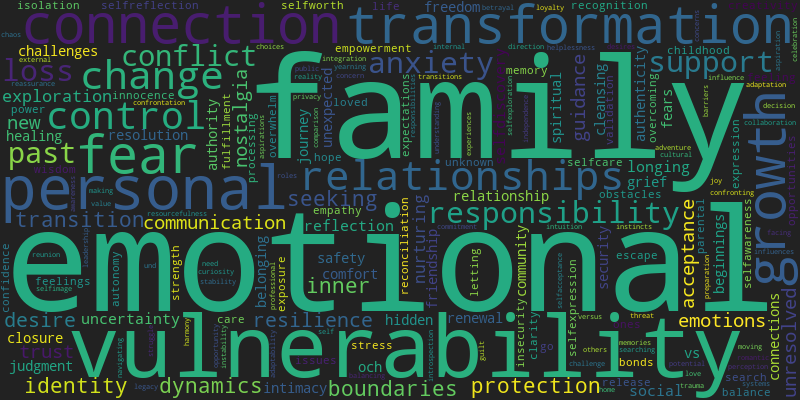
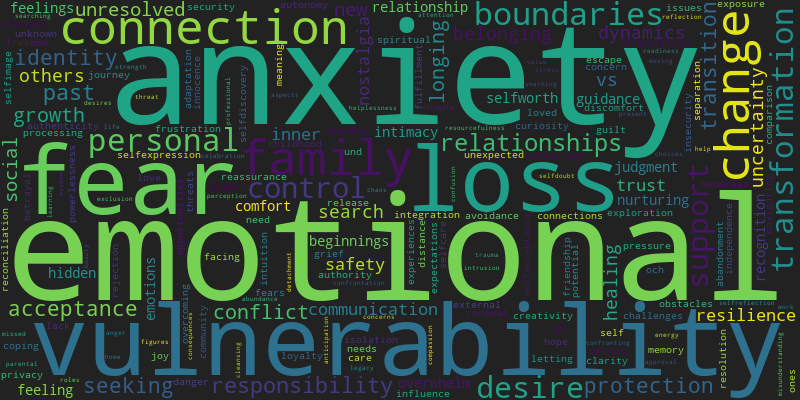
Add files via upload

diff --git a/index.html b/index.html
@@ -1,6 +1,6 @@
 <div style="padding-top: 50px;"></div>
 <h1 style="text-align:center;">Dreamverse State</h1>
-<h2 style="text-align:center;">April 30, 2025</h2>
+<h2 style="text-align:center;">May 31, 2025</h2>
 <div style="padding: 80px;"><html>
     <head>
         <meta charset="utf-8">
@@ -91,8 +91,8 @@
                   
 
                   // parsing and collecting nodes and edges from the python
-                  nodes = new vis.DataSet([{"color": "#1EA5DE", "font": {"color": "white"}, "id": "family", "label": "family", "shape": "dot", "title": "family"}, {"color": "#1EA5DE", "font": {"color": "white"}, "id": "nurturing", "label": "nurturing", "shape": "dot", "title": "nurturing"}, {"color": "#1EA5DE", "font": {"color": "white"}, "id": "responsibility", "label": "responsibility", "shape": "dot", "title": "responsibility"}, {"color": "#1EA5DE", "font": {"color": "white"}, "id": "unresolved emotions", "label": "unresolved emotions", "shape": "dot", "title": "unresolved emotions"}, {"color": "#1EA5DE", "font": {"color": "white"}, "id": "new beginnings", "label": "new beginnings", "shape": "dot", "title": "new beginnings"}, {"color": "#1EA5DE", "font": {"color": "white"}, "id": "protection", "label": "protection", "shape": "dot", "title": "protection"}, {"color": "#A51FD2", "font": {"color": "white"}, "id": "anxiety", "label": "anxiety", "shape": "dot", "title": "anxiety"}, {"color": "#1EA5DE", "font": {"color": "white"}, "id": "loss control", "label": "loss control", "shape": "dot", "title": "loss control"}, {"color": "#97F762", "font": {"color": "white"}, "id": "transformation", "label": "transformation", "shape": "dot", "title": "transformation"}, {"color": "#1EA5DE", "font": {"color": "white"}, "id": "helplessness", "label": "helplessness", "shape": "dot", "title": "helplessness"}, {"color": "#8CED22", "font": {"color": "white"}, "id": "connection", "label": "connection", "shape": "dot", "title": "connection"}, {"color": "#28A663", "font": {"color": "white"}, "id": "vulnerability", "label": "vulnerability", "shape": "dot", "title": "vulnerability"}, {"color": "#1EA5DE", "font": {"color": "white"}, "id": "closure", "label": "closure", "shape": "dot", "title": "closure"}, {"color": "#1EA5DE", "font": {"color": "white"}, "id": "past relationships", "label": "past relationships", "shape": "dot", "title": "past relationships"}, {"color": "#97F762", "font": {"color": "white"}, "id": "exploration", "label": "exploration", "shape": "dot", "title": "exploration"}, {"color": "#97F762", "font": {"color": "white"}, "id": "identity", "label": "identity", "shape": "dot", "title": "identity"}, {"color": "#A51FD2", "font": {"color": "white"}, "id": "resilience", "label": "resilience", "shape": "dot", "title": "resilience"}, {"color": "#A51FD2", "font": {"color": "white"}, "id": "inner strength", "label": "inner strength", "shape": "dot", "title": "inner strength"}, {"color": "#A51FD2", "font": {"color": "white"}, "id": "loss", "label": "loss", "shape": "dot", "title": "loss"}, {"color": "#A51FD2", "font": {"color": "white"}, "id": "friendship", "label": "friendship", "shape": "dot", "title": "friendship"}, {"color": "#28A663", "font": {"color": "white"}, "id": "exposure", "label": "exposure", "shape": "dot", "title": "exposure"}, {"color": "#28A663", "font": {"color": "white"}, "id": "authenticity", "label": "authenticity", "shape": "dot", "title": "authenticity"}, {"color": "#28A663", "font": {"color": "white"}, "id": "selfperception", "label": "selfperception", "shape": "dot", "title": "selfperception"}, {"color": "#97F762", "font": {"color": "white"}, "id": "personal growth", "label": "personal growth", "shape": "dot", "title": "personal growth"}, {"color": "#A51FD2", "font": {"color": "white"}, "id": "change", "label": "change", "shape": "dot", "title": "change"}, {"color": "#8CED22", "font": {"color": "white"}, "id": "control", "label": "control", "shape": "dot", "title": "control"}, {"color": "#A51FD2", "font": {"color": "white"}, "id": "fear", "label": "fear", "shape": "dot", "title": "fear"}, {"color": "#97F762", "font": {"color": "white"}, "id": "inner conflict", "label": "inner conflict", "shape": "dot", "title": "inner conflict"}, {"color": "#28A663", "font": {"color": "white"}, "id": "privacy", "label": "privacy", "shape": "dot", "title": "privacy"}, {"color": "#28A663", "font": {"color": "white"}, "id": "judgment", "label": "judgment", "shape": "dot", "title": "judgment"}, {"color": "#28A663", "font": {"color": "white"}, "id": "intimacy", "label": "intimacy", "shape": "dot", "title": "intimacy"}, {"color": "#8CED22", "font": {"color": "white"}, "id": "transition", "label": "transition", "shape": "dot", "title": "transition"}, {"color": "#28A663", "font": {"color": "white"}, "id": "trust", "label": "trust", "shape": "dot", "title": "trust"}, {"color": "#28A663", "font": {"color": "white"}, "id": "selfacceptance", "label": "selfacceptance", "shape": "dot", "title": "selfacceptance"}, {"color": "#28A663", "font": {"color": "white"}, "id": "communication", "label": "communication", "shape": "dot", "title": "communication"}, {"color": "#28A663", "font": {"color": "white"}, "id": "acceptance", "label": "acceptance", "shape": "dot", "title": "acceptance"}, {"color": "#28A663", "font": {"color": "white"}, "id": "confrontation", "label": "confrontation", "shape": "dot", "title": "confrontation"}, {"color": "#28A663", "font": {"color": "white"}, "id": "boundaries", "label": "boundaries", "shape": "dot", "title": "boundaries"}, {"color": "#28A663", "font": {"color": "white"}, "id": "selfawareness", "label": "selfawareness", "shape": "dot", "title": "selfawareness"}, {"color": "#8CED22", "font": {"color": "white"}, "id": "nostalgia", "label": "nostalgia", "shape": "dot", "title": "nostalgia"}, {"color": "#97F762", "font": {"color": "white"}, "id": "growth", "label": "growth", "shape": "dot", "title": "growth"}, {"color": "#97F762", "font": {"color": "white"}, "id": "guidance", "label": "guidance", "shape": "dot", "title": "guidance"}, {"color": "#97F762", "font": {"color": "white"}, "id": "selfdiscovery", "label": "selfdiscovery", "shape": "dot", "title": "selfdiscovery"}, {"color": "#8CED22", "font": {"color": "white"}, "id": "family dynamics", "label": "family dynamics", "shape": "dot", "title": "family dynamics"}, {"color": "#97F762", "font": {"color": "white"}, "id": "inner wisdom", "label": "inner wisdom", "shape": "dot", "title": "inner wisdom"}, {"color": "#97F762", "font": {"color": "white"}, "id": "cleansing", "label": "cleansing", "shape": "dot", "title": "cleansing"}, {"color": "#97F762", "font": {"color": "white"}, "id": "renewal", "label": "renewal", "shape": "dot", "title": "renewal"}, {"color": "#97F762", "font": {"color": "white"}, "id": "adaptability", "label": "adaptability", "shape": "dot", "title": "adaptability"}, {"color": "#97F762", "font": {"color": "white"}, "id": "belonging", "label": "belonging", "shape": "dot", "title": "belonging"}, {"color": "#A51FD2", "font": {"color": "white"}, "id": "grief", "label": "grief", "shape": "dot", "title": "grief"}, {"color": "#97F762", "font": {"color": "white"}, "id": "spirituality", "label": "spirituality", "shape": "dot", "title": "spirituality"}, {"color": "#97F762", "font": {"color": "white"}, "id": "reflection", "label": "reflection", "shape": "dot", "title": "reflection"}, {"color": "#28A663", "font": {"color": "white"}, "id": "insecurity", "label": "insecurity", "shape": "dot", "title": "insecurity"}, {"color": "#8CED22", "font": {"color": "white"}, "id": "uncertainty", "label": "uncertainty", "shape": "dot", "title": "uncertainty"}, {"color": "#8CED22", "font": {"color": "white"}, "id": "community", "label": "community", "shape": "dot", "title": "community"}, {"color": "#97F762", "font": {"color": "white"}, "id": "opportunity", "label": "opportunity", "shape": "dot", "title": "opportunity"}, {"color": "#8CED22", "font": {"color": "white"}, "id": "personal transformation", "label": "personal transformation", "shape": "dot", "title": "personal transformation"}, {"color": "#8CED22", "font": {"color": "white"}, "id": "creativity", "label": "creativity", "shape": "dot", "title": "creativity"}, {"color": "#DBA470", "font": {"color": "white"}, "id": "conflict resolution", "label": "conflict resolution", "shape": "dot", "title": "conflict resolution"}, {"color": "#DBA470", "font": {"color": "white"}, "id": "relationship dynamics", "label": "relationship dynamics", "shape": "dot", "title": "relationship dynamics"}]);
-                  edges = new vis.DataSet([{"from": "family", "to": "nurturing", "value": 3}, {"from": "nurturing", "to": "responsibility", "value": 3}, {"from": "nurturing", "to": "new beginnings", "value": 4}, {"from": "nurturing", "to": "protection", "value": 4}, {"from": "nurturing", "to": "transformation", "value": 4}, {"from": "responsibility", "to": "unresolved emotions", "value": 3}, {"from": "responsibility", "to": "new beginnings", "value": 3}, {"from": "responsibility", "to": "protection", "value": 3}, {"from": "responsibility", "to": "anxiety", "value": 3}, {"from": "responsibility", "to": "loss control", "value": 3}, {"from": "responsibility", "to": "transformation", "value": 4}, {"from": "responsibility", "to": "helplessness", "value": 5}, {"from": "responsibility", "to": "connection", "value": 3}, {"from": "responsibility", "to": "vulnerability", "value": 4}, {"from": "unresolved emotions", "to": "closure", "value": 3}, {"from": "unresolved emotions", "to": "past relationships", "value": 3}, {"from": "protection", "to": "vulnerability", "value": 6}, {"from": "protection", "to": "transition", "value": 3}, {"from": "protection", "to": "control", "value": 3}, {"from": "anxiety", "to": "resilience", "value": 4}, {"from": "anxiety", "to": "vulnerability", "value": 6}, {"from": "anxiety", "to": "transformation", "value": 3}, {"from": "anxiety", "to": "change", "value": 8}, {"from": "anxiety", "to": "loss", "value": 4}, {"from": "anxiety", "to": "belonging", "value": 3}, {"from": "anxiety", "to": "control", "value": 4}, {"from": "anxiety", "to": "fear", "value": 3}, {"from": "loss control", "to": "vulnerability", "value": 3}, {"from": "transformation", "to": "vulnerability", "value": 9}, {"from": "transformation", "to": "change", "value": 9}, {"from": "transformation", "to": "nostalgia", "value": 3}, {"from": "transformation", "to": "growth", "value": 5}, {"from": "transformation", "to": "guidance", "value": 4}, {"from": "transformation", "to": "personal growth", "value": 8}, {"from": "transformation", "to": "inner conflict", "value": 3}, {"from": "transformation", "to": "selfdiscovery", "value": 3}, {"from": "transformation", "to": "acceptance", "value": 3}, {"from": "transformation", "to": "identity", "value": 5}, {"from": "transformation", "to": "family dynamics", "value": 3}, {"from": "transformation", "to": "transition", "value": 4}, {"from": "transformation", "to": "inner wisdom", "value": 3}, {"from": "transformation", "to": "cleansing", "value": 3}, {"from": "transformation", "to": "renewal", "value": 4}, {"from": "transformation", "to": "adaptability", "value": 3}, {"from": "helplessness", "to": "vulnerability", "value": 3}, {"from": "connection", "to": "nostalgia", "value": 5}, {"from": "connection", "to": "creativity", "value": 3}, {"from": "vulnerability", "to": "resilience", "value": 5}, {"from": "vulnerability", "to": "loss", "value": 5}, {"from": "vulnerability", "to": "friendship", "value": 3}, {"from": "vulnerability", "to": "exposure", "value": 6}, {"from": "vulnerability", "to": "authenticity", "value": 9}, {"from": "vulnerability", "to": "selfperception", "value": 3}, {"from": "vulnerability", "to": "personal growth", "value": 4}, {"from": "vulnerability", "to": "change", "value": 5}, {"from": "vulnerability", "to": "control", "value": 3}, {"from": "vulnerability", "to": "fear", "value": 3}, {"from": "vulnerability", "to": "inner conflict", "value": 3}, {"from": "vulnerability", "to": "privacy", "value": 4}, {"from": "vulnerability", "to": "judgment", "value": 3}, {"from": "vulnerability", "to": "intimacy", "value": 5}, {"from": "vulnerability", "to": "transition", "value": 3}, {"from": "vulnerability", "to": "trust", "value": 4}, {"from": "vulnerability", "to": "selfacceptance", "value": 3}, {"from": "vulnerability", "to": "communication", "value": 4}, {"from": "vulnerability", "to": "acceptance", "value": 4}, {"from": "vulnerability", "to": "confrontation", "value": 3}, {"from": "vulnerability", "to": "boundaries", "value": 7}, {"from": "vulnerability", "to": "selfawareness", "value": 3}, {"from": "exploration", "to": "identity", "value": 3}, {"from": "identity", "to": "reflection", "value": 3}, {"from": "identity", "to": "belonging", "value": 3}, {"from": "identity", "to": "selfdiscovery", "value": 5}, {"from": "identity", "to": "growth", "value": 3}, {"from": "resilience", "to": "inner strength", "value": 3}, {"from": "loss", "to": "change", "value": 5}, {"from": "loss", "to": "grief", "value": 4}, {"from": "loss", "to": "friendship", "value": 4}, {"from": "personal growth", "to": "change", "value": 3}, {"from": "personal growth", "to": "opportunity", "value": 3}, {"from": "control", "to": "uncertainty", "value": 3}, {"from": "privacy", "to": "boundaries", "value": 3}, {"from": "transition", "to": "nostalgia", "value": 4}, {"from": "transition", "to": "uncertainty", "value": 3}, {"from": "transition", "to": "selfdiscovery", "value": 3}, {"from": "transition", "to": "community", "value": 3}, {"from": "trust", "to": "insecurity", "value": 4}, {"from": "nostalgia", "to": "family dynamics", "value": 3}, {"from": "growth", "to": "reflection", "value": 4}, {"from": "guidance", "to": "spirituality", "value": 3}, {"from": "family dynamics", "to": "personal transformation", "value": 3}, {"from": "conflict resolution", "to": "relationship dynamics", "value": 3}]);
+                  nodes = new vis.DataSet([{"color": "#3CF1D2", "font": {"color": "white"}, "id": "selfexpression", "label": "selfexpression", "shape": "dot", "title": "selfexpression"}, {"color": "#AC235F", "font": {"color": "white"}, "id": "vulnerability", "label": "vulnerability", "shape": "dot", "title": "vulnerability"}, {"color": "#3CF1D2", "font": {"color": "white"}, "id": "confidence", "label": "confidence", "shape": "dot", "title": "confidence"}, {"color": "#3CF1D2", "font": {"color": "white"}, "id": "acceptance", "label": "acceptance", "shape": "dot", "title": "acceptance"}, {"color": "#3CF1D2", "font": {"color": "white"}, "id": "identity", "label": "identity", "shape": "dot", "title": "identity"}, {"color": "#AC235F", "font": {"color": "white"}, "id": "authenticity", "label": "authenticity", "shape": "dot", "title": "authenticity"}, {"color": "#3CF1D2", "font": {"color": "white"}, "id": "belonging", "label": "belonging", "shape": "dot", "title": "belonging"}, {"color": "#E28A18", "font": {"color": "white"}, "id": "selfworth", "label": "selfworth", "shape": "dot", "title": "selfworth"}, {"color": "#3CF1D2", "font": {"color": "white"}, "id": "nostalgia", "label": "nostalgia", "shape": "dot", "title": "nostalgia"}, {"color": "#3CF1D2", "font": {"color": "white"}, "id": "connection", "label": "connection", "shape": "dot", "title": "connection"}, {"color": "#E28A18", "font": {"color": "white"}, "id": "recognition", "label": "recognition", "shape": "dot", "title": "recognition"}, {"color": "#E28A18", "font": {"color": "white"}, "id": "trust", "label": "trust", "shape": "dot", "title": "trust"}, {"color": "#E28A18", "font": {"color": "white"}, "id": "insecurity", "label": "insecurity", "shape": "dot", "title": "insecurity"}, {"color": "#BDE27D", "font": {"color": "white"}, "id": "boundaries", "label": "boundaries", "shape": "dot", "title": "boundaries"}, {"color": "#9A89D9", "font": {"color": "white"}, "id": "personal growth", "label": "personal growth", "shape": "dot", "title": "personal growth"}, {"color": "#9A89D9", "font": {"color": "white"}, "id": "new beginnings", "label": "new beginnings", "shape": "dot", "title": "new beginnings"}, {"color": "#9A89D9", "font": {"color": "white"}, "id": "selfdiscovery", "label": "selfdiscovery", "shape": "dot", "title": "selfdiscovery"}, {"color": "#9A89D9", "font": {"color": "white"}, "id": "transformation", "label": "transformation", "shape": "dot", "title": "transformation"}, {"color": "#889FE6", "font": {"color": "white"}, "id": "transition", "label": "transition", "shape": "dot", "title": "transition"}, {"color": "#9A89D9", "font": {"color": "white"}, "id": "letting go past", "label": "letting go past", "shape": "dot", "title": "letting go past"}, {"color": "#BDE27D", "font": {"color": "white"}, "id": "family relationships", "label": "family relationships", "shape": "dot", "title": "family relationships"}, {"color": "#9A89D9", "font": {"color": "white"}, "id": "nurturing", "label": "nurturing", "shape": "dot", "title": "nurturing"}, {"color": "#9A89D9", "font": {"color": "white"}, "id": "creativity", "label": "creativity", "shape": "dot", "title": "creativity"}, {"color": "#BDE27D", "font": {"color": "white"}, "id": "responsibility", "label": "responsibility", "shape": "dot", "title": "responsibility"}, {"color": "#BDE27D", "font": {"color": "white"}, "id": "protection", "label": "protection", "shape": "dot", "title": "protection"}, {"color": "#AC235F", "font": {"color": "white"}, "id": "powerlessness", "label": "powerlessness", "shape": "dot", "title": "powerlessness"}, {"color": "#E28A18", "font": {"color": "white"}, "id": "betrayal", "label": "betrayal", "shape": "dot", "title": "betrayal"}, {"color": "#AC235F", "font": {"color": "white"}, "id": "loss control", "label": "loss control", "shape": "dot", "title": "loss control"}, {"color": "#AC235F", "font": {"color": "white"}, "id": "anxiety", "label": "anxiety", "shape": "dot", "title": "anxiety"}, {"color": "#AC235F", "font": {"color": "white"}, "id": "seeking support", "label": "seeking support", "shape": "dot", "title": "seeking support"}, {"color": "#AC235F", "font": {"color": "white"}, "id": "isolation", "label": "isolation", "shape": "dot", "title": "isolation"}, {"color": "#BDE27D", "font": {"color": "white"}, "id": "privacy", "label": "privacy", "shape": "dot", "title": "privacy"}, {"color": "#AC235F", "font": {"color": "white"}, "id": "exposure", "label": "exposure", "shape": "dot", "title": "exposure"}, {"color": "#9A89D9", "font": {"color": "white"}, "id": "healing", "label": "healing", "shape": "dot", "title": "healing"}, {"color": "#AC235F", "font": {"color": "white"}, "id": "fear judgment", "label": "fear judgment", "shape": "dot", "title": "fear judgment"}, {"color": "#AC235F", "font": {"color": "white"}, "id": "selfimage", "label": "selfimage", "shape": "dot", "title": "selfimage"}, {"color": "#889FE6", "font": {"color": "white"}, "id": "change", "label": "change", "shape": "dot", "title": "change"}, {"color": "#AC235F", "font": {"color": "white"}, "id": "fear unknown", "label": "fear unknown", "shape": "dot", "title": "fear unknown"}, {"color": "#889FE6", "font": {"color": "white"}, "id": "loss", "label": "loss", "shape": "dot", "title": "loss"}, {"color": "#3CF1D2", "font": {"color": "white"}, "id": "intimacy", "label": "intimacy", "shape": "dot", "title": "intimacy"}, {"color": "#AC235F", "font": {"color": "white"}, "id": "communication", "label": "communication", "shape": "dot", "title": "communication"}, {"color": "#AC235F", "font": {"color": "white"}, "id": "personal boundaries", "label": "personal boundaries", "shape": "dot", "title": "personal boundaries"}, {"color": "#AC235F", "font": {"color": "white"}, "id": "selfacceptance", "label": "selfacceptance", "shape": "dot", "title": "selfacceptance"}, {"color": "#BDE27D", "font": {"color": "white"}, "id": "fear loss", "label": "fear loss", "shape": "dot", "title": "fear loss"}, {"color": "#889FE6", "font": {"color": "white"}, "id": "resilience", "label": "resilience", "shape": "dot", "title": "resilience"}, {"color": "#BDE27D", "font": {"color": "white"}, "id": "guilt", "label": "guilt", "shape": "dot", "title": "guilt"}, {"color": "#BDE27D", "font": {"color": "white"}, "id": "conflict", "label": "conflict", "shape": "dot", "title": "conflict"}, {"color": "#889FE6", "font": {"color": "white"}, "id": "uncertainty", "label": "uncertainty", "shape": "dot", "title": "uncertainty"}, {"color": "#3CF1D2", "font": {"color": "white"}, "id": "reconnection", "label": "reconnection", "shape": "dot", "title": "reconnection"}, {"color": "#9A89D9", "font": {"color": "white"}, "id": "support", "label": "support", "shape": "dot", "title": "support"}, {"color": "#E28A18", "font": {"color": "white"}, "id": "jealousy", "label": "jealousy", "shape": "dot", "title": "jealousy"}, {"color": "#9A89D9", "font": {"color": "white"}, "id": "growth", "label": "growth", "shape": "dot", "title": "growth"}, {"color": "#AC235F", "font": {"color": "white"}, "id": "emotional overwhelm", "label": "emotional overwhelm", "shape": "dot", "title": "emotional overwhelm"}, {"color": "#BDE27D", "font": {"color": "white"}, "id": "friendship", "label": "friendship", "shape": "dot", "title": "friendship"}, {"color": "#BDE27D", "font": {"color": "white"}, "id": "family dynamics", "label": "family dynamics", "shape": "dot", "title": "family dynamics"}, {"color": "#3CF1D2", "font": {"color": "white"}, "id": "desire", "label": "desire", "shape": "dot", "title": "desire"}, {"color": "#BDE27D", "font": {"color": "white"}, "id": "intuition", "label": "intuition", "shape": "dot", "title": "intuition"}, {"color": "#BDE27D", "font": {"color": "white"}, "id": "intrusion", "label": "intrusion", "shape": "dot", "title": "intrusion"}, {"color": "#BDE27D", "font": {"color": "white"}, "id": "personal space", "label": "personal space", "shape": "dot", "title": "personal space"}, {"color": "#AC235F", "font": {"color": "white"}, "id": "overwhelm", "label": "overwhelm", "shape": "dot", "title": "overwhelm"}, {"color": "#BDE27D", "font": {"color": "white"}, "id": "helplessness", "label": "helplessness", "shape": "dot", "title": "helplessness"}, {"color": "#AC235F", "font": {"color": "white"}, "id": "lack control", "label": "lack control", "shape": "dot", "title": "lack control"}, {"color": "#AC235F", "font": {"color": "white"}, "id": "fear", "label": "fear", "shape": "dot", "title": "fear"}, {"color": "#AC235F", "font": {"color": "white"}, "id": "avoidance", "label": "avoidance", "shape": "dot", "title": "avoidance"}, {"color": "#889FE6", "font": {"color": "white"}, "id": "unresolved emotions", "label": "unresolved emotions", "shape": "dot", "title": "unresolved emotions"}, {"color": "#889FE6", "font": {"color": "white"}, "id": "grief", "label": "grief", "shape": "dot", "title": "grief"}]);
+                  edges = new vis.DataSet([{"from": "selfexpression", "to": "vulnerability", "value": 5}, {"from": "selfexpression", "to": "confidence", "value": 5}, {"from": "selfexpression", "to": "acceptance", "value": 4}, {"from": "selfexpression", "to": "identity", "value": 5}, {"from": "vulnerability", "to": "authenticity", "value": 4}, {"from": "vulnerability", "to": "selfworth", "value": 5}, {"from": "vulnerability", "to": "new beginnings", "value": 6}, {"from": "vulnerability", "to": "responsibility", "value": 8}, {"from": "vulnerability", "to": "boundaries", "value": 27}, {"from": "vulnerability", "to": "nurturing", "value": 5}, {"from": "vulnerability", "to": "protection", "value": 13}, {"from": "vulnerability", "to": "powerlessness", "value": 5}, {"from": "vulnerability", "to": "betrayal", "value": 4}, {"from": "vulnerability", "to": "loss control", "value": 20}, {"from": "vulnerability", "to": "anxiety", "value": 22}, {"from": "vulnerability", "to": "seeking support", "value": 11}, {"from": "vulnerability", "to": "isolation", "value": 4}, {"from": "vulnerability", "to": "privacy", "value": 7}, {"from": "vulnerability", "to": "exposure", "value": 10}, {"from": "vulnerability", "to": "healing", "value": 4}, {"from": "vulnerability", "to": "fear judgment", "value": 5}, {"from": "vulnerability", "to": "transition", "value": 5}, {"from": "vulnerability", "to": "selfimage", "value": 15}, {"from": "vulnerability", "to": "change", "value": 7}, {"from": "vulnerability", "to": "identity", "value": 7}, {"from": "vulnerability", "to": "trust", "value": 11}, {"from": "vulnerability", "to": "acceptance", "value": 7}, {"from": "vulnerability", "to": "transformation", "value": 6}, {"from": "vulnerability", "to": "fear unknown", "value": 4}, {"from": "vulnerability", "to": "loss", "value": 7}, {"from": "vulnerability", "to": "intimacy", "value": 10}, {"from": "vulnerability", "to": "communication", "value": 9}, {"from": "vulnerability", "to": "personal boundaries", "value": 5}, {"from": "vulnerability", "to": "selfacceptance", "value": 6}, {"from": "vulnerability", "to": "fear loss", "value": 4}, {"from": "vulnerability", "to": "resilience", "value": 7}, {"from": "acceptance", "to": "identity", "value": 4}, {"from": "acceptance", "to": "intimacy", "value": 4}, {"from": "identity", "to": "belonging", "value": 4}, {"from": "identity", "to": "loss", "value": 4}, {"from": "identity", "to": "transformation", "value": 6}, {"from": "belonging", "to": "selfworth", "value": 4}, {"from": "belonging", "to": "nostalgia", "value": 4}, {"from": "belonging", "to": "connection", "value": 4}, {"from": "selfworth", "to": "recognition", "value": 4}, {"from": "selfworth", "to": "trust", "value": 5}, {"from": "selfworth", "to": "insecurity", "value": 4}, {"from": "selfworth", "to": "boundaries", "value": 4}, {"from": "nostalgia", "to": "connection", "value": 4}, {"from": "nostalgia", "to": "reconnection", "value": 4}, {"from": "connection", "to": "intimacy", "value": 4}, {"from": "connection", "to": "desire", "value": 4}, {"from": "trust", "to": "insecurity", "value": 6}, {"from": "trust", "to": "boundaries", "value": 6}, {"from": "trust", "to": "betrayal", "value": 7}, {"from": "insecurity", "to": "jealousy", "value": 5}, {"from": "boundaries", "to": "family relationships", "value": 4}, {"from": "boundaries", "to": "guilt", "value": 5}, {"from": "boundaries", "to": "privacy", "value": 9}, {"from": "boundaries", "to": "friendship", "value": 4}, {"from": "boundaries", "to": "intimacy", "value": 5}, {"from": "boundaries", "to": "family dynamics", "value": 8}, {"from": "boundaries", "to": "desire", "value": 4}, {"from": "boundaries", "to": "exposure", "value": 5}, {"from": "boundaries", "to": "protection", "value": 5}, {"from": "boundaries", "to": "intuition", "value": 4}, {"from": "boundaries", "to": "conflict", "value": 4}, {"from": "boundaries", "to": "intrusion", "value": 6}, {"from": "boundaries", "to": "anxiety", "value": 5}, {"from": "boundaries", "to": "personal space", "value": 4}, {"from": "personal growth", "to": "new beginnings", "value": 6}, {"from": "personal growth", "to": "selfdiscovery", "value": 4}, {"from": "personal growth", "to": "transformation", "value": 7}, {"from": "personal growth", "to": "transition", "value": 6}, {"from": "personal growth", "to": "letting go past", "value": 4}, {"from": "new beginnings", "to": "nurturing", "value": 7}, {"from": "new beginnings", "to": "transformation", "value": 4}, {"from": "new beginnings", "to": "creativity", "value": 4}, {"from": "selfdiscovery", "to": "transformation", "value": 6}, {"from": "transformation", "to": "responsibility", "value": 5}, {"from": "transformation", "to": "support", "value": 4}, {"from": "transformation", "to": "growth", "value": 4}, {"from": "transformation", "to": "healing", "value": 4}, {"from": "transformation", "to": "anxiety", "value": 5}, {"from": "transformation", "to": "communication", "value": 4}, {"from": "transition", "to": "uncertainty", "value": 7}, {"from": "transition", "to": "change", "value": 4}, {"from": "nurturing", "to": "responsibility", "value": 4}, {"from": "responsibility", "to": "guilt", "value": 6}, {"from": "responsibility", "to": "protection", "value": 7}, {"from": "responsibility", "to": "conflict", "value": 4}, {"from": "responsibility", "to": "anxiety", "value": 5}, {"from": "protection", "to": "family dynamics", "value": 4}, {"from": "protection", "to": "anxiety", "value": 4}, {"from": "protection", "to": "helplessness", "value": 4}, {"from": "powerlessness", "to": "anxiety", "value": 4}, {"from": "loss control", "to": "selfimage", "value": 7}, {"from": "loss control", "to": "uncertainty", "value": 4}, {"from": "loss control", "to": "anxiety", "value": 14}, {"from": "loss control", "to": "emotional overwhelm", "value": 4}, {"from": "anxiety", "to": "selfimage", "value": 8}, {"from": "anxiety", "to": "communication", "value": 4}, {"from": "anxiety", "to": "overwhelm", "value": 6}, {"from": "anxiety", "to": "lack control", "value": 5}, {"from": "anxiety", "to": "fear", "value": 5}, {"from": "anxiety", "to": "change", "value": 4}, {"from": "anxiety", "to": "avoidance", "value": 4}, {"from": "anxiety", "to": "loss", "value": 6}, {"from": "anxiety", "to": "intrusion", "value": 4}, {"from": "selfimage", "to": "loss", "value": 5}, {"from": "selfimage", "to": "communication", "value": 4}, {"from": "change", "to": "family dynamics", "value": 4}, {"from": "change", "to": "loss", "value": 5}, {"from": "loss", "to": "grief", "value": 10}, {"from": "intimacy", "to": "desire", "value": 7}, {"from": "fear loss", "to": "helplessness", "value": 6}, {"from": "resilience", "to": "uncertainty", "value": 4}, {"from": "unresolved emotions", "to": "grief", "value": 4}]);
 
                   nodeColors = {};
                   allNodes = nodes.get({ returnType: "Object" });
@@ -193,51 +193,50 @@
     
 <br>
 <h1>Initial Reflection</h1>
-<h2>Across the Dreamverse, we see a gobelin of inner and outer journeys: from the pull of our roots and early relationships, through the fires of loss and anxiety, onward into the transformative quest for self-knowledge, all framed by the need for authentic connection and the skills to navigate tension. These constellations speak to a collective psyche grappling with where we come from, what we endure, who we truly are, and how we relate to others—each phase offering its own lessons and invitations for growth.</h2>
+<h2>These dream clusters show how personal needs and fears play out beneath the surface. Some dreams focus on relationships and boundaries, others on trust and self-worth, and still others on loss, change, and growth. Together they map a journey from feeling stuck or exposed toward healing and renewal. Notice how certain themes—like fear of loss or desire for connection—recur in different forms. These patterns point to universal struggles: protecting what matters, finding a place to belong, and reclaiming strength after upheaval.</h2>
 <br>
 
 <details>
-  <summary><h1>Roots and Renewal</h1></summary>
-  <h2>This constellation brings together themes of family, nurturing, responsibility and unresolved emotions alongside losses of control and the drive toward new beginnings. Psychologically, it points to the tug of our early bonds—both protective and constraining—and the unfinished business we carry from past relationships. The simultaneous presence of helplessness and a longing for closure suggests it’s time to honor what was lost or left unsaid, so that you can step into new roles with clarity. Action steps include setting aside symbolic rituals (writing letters you never send, creating small ceremonies to mark endings), seeking honest conversations with loved ones, and gently expanding your sense of household or community to include self-care as a responsibility worthy of nurturing.</h2>
+  <summary><h1>Family Boundaries and Protection</h1></summary>
+  <h2>Dreams in this group highlight questions about where we draw the line with others and how we balance duty with personal space. Themes like responsibility, guilt, and family dynamics suggest we may feel torn between caring for loved ones and protecting our own needs. Anxiety around intrusion or fear of loss can show up when relationships feel too demanding or when we worry about letting someone down. It’s a call to check which boundaries serve us and which leave us feeling helpless. We might ask ourselves: where do we need more privacy or support? How can we honor obligations without sacrificing our well-being? On a larger scale, these themes mirror how our culture debates personal freedom versus communal responsibility, especially in families under stress or shifting roles.</h2>
 </details>
 <br>
 
 <details>
-  <summary><h1>Trials and Bonds</h1></summary>
-  <h2>Here, anxiety, fear and grief meet resilience, inner strength and friendship—revealing how our toughest trials often forge our deepest connections. This cluster underscores the dual nature of loss: while it can unmoor us, it also summons the inner resources and social support needed to rebuild. It invites you to notice who shows up when you’re afraid, and where you find courage in shared stories of change. To work with this energy, lean into your support network: reach out before you’re overwhelmed, practice small acts of vulnerability that deepen trust, and cultivate rituals of mutual care (weekly check-ins, shared creative projects) that transform isolated anxiety into collective resilience.</h2>
+  <summary><h1>Vulnerability and Control</h1></summary>
+  <h2>This constellation centers on the tension between showing our true selves and fearing exposure. Dreams about vulnerability, powerlessness, and fear of judgment suggest we’re wrestling with anxiety over how others see us. We may hold back honest communication or avoid asking for help because we worry it makes us weak. Yet themes like seeking support and self-acceptance point to a longing for connection if we dare to open up. Consider where we self-protect by building walls and what might change if we let someone in. Reflecting on small steps—speaking up, sharing a worry—can help us reclaim a sense of control through honesty. Socially, these dreams echo how many feel pressured to look strong online while hiding struggles, fueling isolation even as we crave real connection.</h2>
 </details>
 <br>
 
 <details>
-  <summary><h1>Metamorphosis and Self-Discovery</h1></summary>
-  <h2>Overflowing with transformation, exploration, inner conflict and spiritual reflection, this constellation maps the archetypal journey of individuation. It speaks to periods when old identities shed like skin, revealing opportunities for renewal, adaptability and deeper belonging. The call here is toward guided self-inquiry: carving out time for journaling or meditation, seeking mentors or traditions that mirror your inner wisdom, and treating each challenge as a crucible for growth. Actionable insights include experimenting with new creative outlets, traveling inward through dream incubation or outward through real-world adventures, and creating checkpoints to honor each milestone of self-discovery.</h2>
+  <summary><h1>Trust and Self-Worth</h1></summary>
+  <h2>Here, dreams revolve around feeling seen and valued or fearing betrayal and envy. Struggles with insecurity or jealousy often point to a deeper question: “Are we enough?” When trust feels shaky—either in ourselves or others—we may withdraw or guard our hearts. Recognizing small wins, like moments when someone acknowledged our effort, can build self-worth. If we notice recurring jealousy in dreams, we might ask what we long for in waking life—perhaps acknowledgment of our talents or reassurance that we belong. On a broader level, these themes reflect how societal pressures—success metrics, social comparison—can undermine both personal confidence and trust in relationships.</h2>
 </details>
 <br>
 
 <details>
-  <summary><h1>Communal Transition and Creativity</h1></summary>
-  <h2>This group weaves together connection, uncertainty, community, nostalgia and creativity—highlighting how collective shifts often mirror our personal transitions. When community norms no longer fit, we feel both loss and the spark of innovation. Psychologically, this invites you to view your creative impulses as vital navigation tools: they help re-weave old ties into new patterns. Practical steps include joining or forming small creative circles (writing groups, makers’ co-ops), using art or storytelling to process feelings of uncertainty, and deliberately mixing historical references with fresh ideas to ground innovation in lived experience.</h2>
+  <summary><h1>Transitions and Grief</h1></summary>
+  <h2>Loss, change, and unresolved emotions show up strongly here. Whether it’s grieving a relationship, a role, or a chapter of life, these dreams point to uncertainty and the need for resilience. We might feel stuck in a space between “what was” and “what could be,” haunted by what’s left unsaid. These visions urge us to face grief instead of pushing it aside—acknowledging pain is the first step toward letting go. We might ask ourselves: what are we holding onto, and how would it feel to release it? Culturally, this mirrors how many are reinventing themselves after collective upheavals, learning that grief isn’t just personal but also shaped by shared losses.</h2>
 </details>
 <br>
 
 <details>
-  <summary><h1>The Mirror of Authenticity</h1></summary>
-  <h2>Vulnerability, exposure, authenticity and boundaries all converge here, shining light on the tension between our desire to be seen and our fear of judgment. This constellation points to the inner work of self-acceptance: owning flaws without shame, learning to communicate needs clearly, and erecting compassionate boundaries that protect rather than isolate. Action steps include practicing “I” statements in conversation, experimenting with controlled disclosures (sharing small truths in safe spaces), and using reflective exercises—like mirror work or role-playing—to strengthen self-awareness and trust in your own voice.</h2>
+  <summary><h1>Identity and Connection</h1></summary>
+  <h2>Dreams featuring self-expression, belonging, and nostalgia point to questions about who we are and where we fit. Yearning for intimacy or reconnection suggests a desire to be seen and accepted as we evolve. Identity issues show up when we compare our current selves with a past version—nostalgia reminds us of simpler times, while desire pushes us toward new experiences. These dreams invite us to explore what parts of ourselves we’ve neglected and what communities or relationships fuel our sense of belonging. On a social level, they reflect how people today juggle multiple identities—online personas, cultural backgrounds, personal beliefs—and strive to feel authentic in a world that often demands conformity.</h2>
 </details>
 <br>
 
 <details>
-  <summary><h1>Tensions and Reconciliation</h1></summary>
-  <h2>Focused on conflict resolution and relationship dynamics, this smallest constellation reminds us that tension is an opportunity for repair. It highlights patterns of push-pull in our closest ties and the skills needed to negotiate them. Psychologically, it points to unspoken rules and emotional undercurrents that fuel disagreements. To engage this energy, learn active listening techniques, map out recurring relationship scripts, and practice de-escalation rituals (pausing before responding, naming emotions aloud). Over time, these steps build a capacity for reconciliation that honors both connection and autonomy.</h2>
+  <summary><h1>Growth and Renewal</h1></summary>
+  <h2>This cluster brings hope: themes of transformation, healing, and new beginnings. If we see creativity, nurturing, and letting go of the past, it means we’re ready for change. Dreams like these often appear when we’re on the cusp of a breakthrough—learning something new about ourselves or releasing old patterns that no longer fit. They encourage us to lean into support systems, whether that’s friends, mentors, or inner resources like intuition. We might ask: what step can we take today to nurture our growth? In a broader sense, these themes resonate with a cultural shift toward self-care, mindfulness, and valuing emotional health over constant productivity.</h2>
 </details>
 <br>
 
 <details>
   <summary><h1>Final Reflections</h1></summary>
-  <h2>As you move among these constellations, notice which themes feel most urgent in your own life—and how they resonate or clash with one another. Are you caught between honoring your roots and forging a new path? Do you lean more on community or self-reliance? Which inner voices are silent, and which demand your attention? Allow yourself to trace a path from one constellation to the next, observing how each stage in the Dreamverse can guide your waking growth. Reflect on the threads connecting loss to renewal, anxiety to resilience, and authenticity to belonging—and let the insights you gather inspire tangible shifts in your daily choices.</h2>
+  <h2>Notice how each constellation connects to the next. Questions about boundaries and family can feed feelings of vulnerability, which may erode trust and self-worth. Grief may follow change, but it also creates space for new identity and, eventually, growth. Let’s take time to sit with each theme: where do we feel stuck, and where do we sense momentum? We might journal or discuss these clusters with someone we trust. Pay attention to how close or distant these constellations feel in our own lives. Some Seers will find themselves lingering in grief; others may skip straight to renewal. Neither is right or wrong. These patterns simply map the journey inward—inviting us to notice where we stand and choose our next step.</h2>
 </details>
 <br>
-
 
   
 </body>
